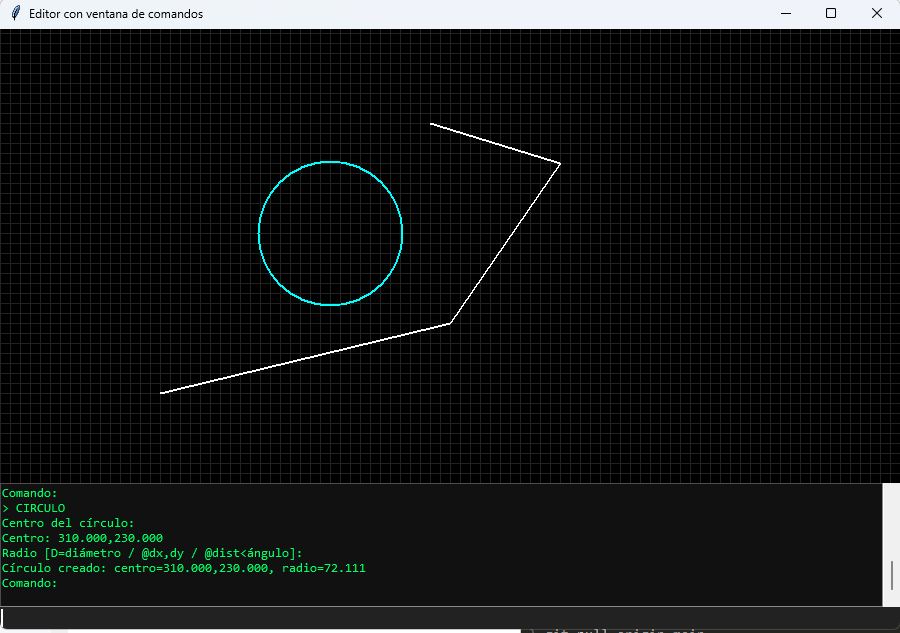
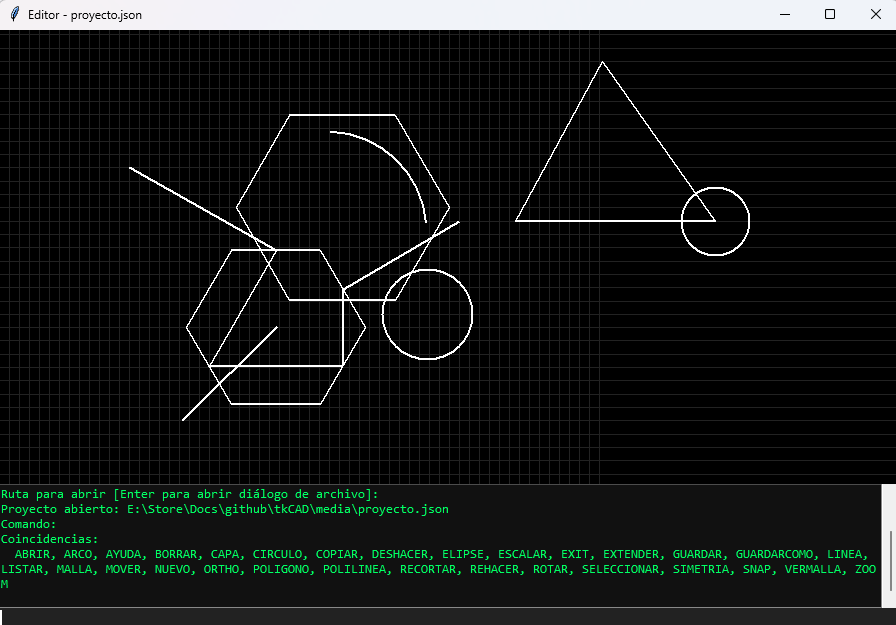
Algunas modificaciones, sobre README.md y el screenshot.png

Changed region(s): [[0.0, 0.0, 1.0, 1.0]]

diff --git a/Readme.md b/Readme.md
@@ -111,9 +111,9 @@ Teclas especiales:
 | `MALLA`       | `GRID`                  | Activa/desactiva malla y snap a malla.                                         |
 | `VERMALLA`    | `VERGRID`               | Muestra/oculta la malla en pantalla.                                           |
 | `CAPA`        | `CAPAS`, `LA`           | Gestor de capas: crear, cambiar, ON/OFF, color, bloqueo                        |
-| `ZOOM`        | `ZOOM`, `Z`             | Gestor de zoom: + , -, Todo, T/EXT, 2 (o 0.5, etc..)
-                                                    |
-| `ORTHO`       | `ORT`, `F8`             | Activa/desactiva el forzado ortogonal |
+| `ZOOM`        | `ZOOM`, `Z`             | Gestor de zoom: + , -, Todo, T/EXT, 2 (o 0.5, etc..)                           |
+| `ORTHO`       | `ORT`, `F8`             | Activa/desactiva el forzado ortogonal                                          |
+
 ---
 
 ## 📐 Entrada de coordenadas
@@ -359,23 +359,7 @@ Cubiertos actualmente:
 
 ## 📜 Licencia
 
-MIT
-
-```adoc
----
-
-## Paso siguiente
-
-1. Crea también la carpeta `docs/` y dentro deja un `screenshot.png` (puedes poner una captura de la app cuando quieras).
-2. Añade al `.gitignore` si no lo tenías:
-
-```gitignore
-# Screenshots generadas
-*.png
-# ... pero no docs/screenshot.png
-```
-
-(o simplemente no ignores PNG si quieres incluirlo en el repo).
+    MIT
 
 3. Ejecuta:
 
@@ -401,11 +385,6 @@ git commit -m "docs: README completo con arquitectura y guía para añadir coman
 
 ## 🔮 Próximas mejoras previstas
 
-- Deshacer / rehacer.
-- Zoom y pan.
-- Marcadores visuales de snap y snaps adicionales (cuadrante, tangente, centro).
-- Selección por polígono y selección cíclica.
-- Añadir/eliminar vértices con grips.
 - Recortar/extender con más tipos de entidades.
 - Intersecciones con círculos, arcos y elipses.
 - Exportación/importación DXF.
@@ -414,4 +393,4 @@ git commit -m "docs: README completo con arquitectura y guía para añadir coman
 
 ---
 
-*Proyecto en desarrollo — Bixcoot.*
+*Proyecto en desarrollo — tkCAD.*
